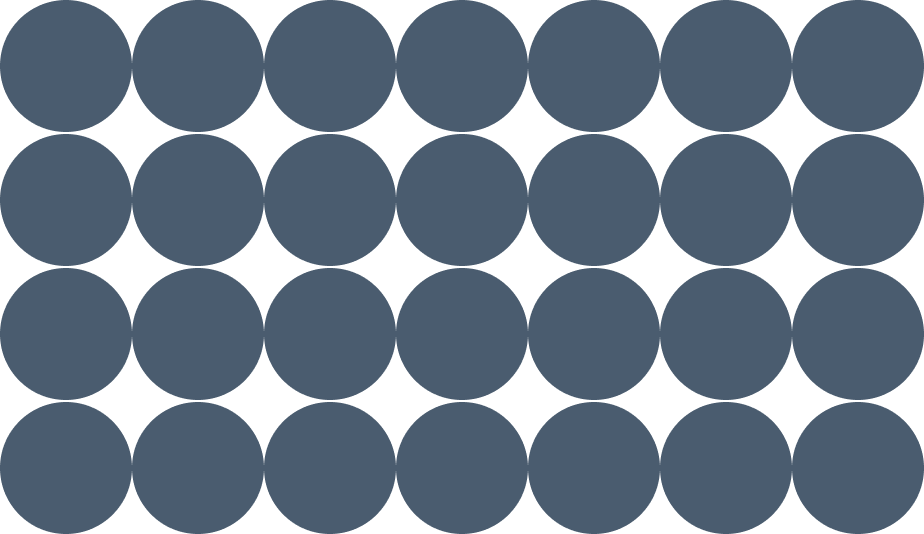
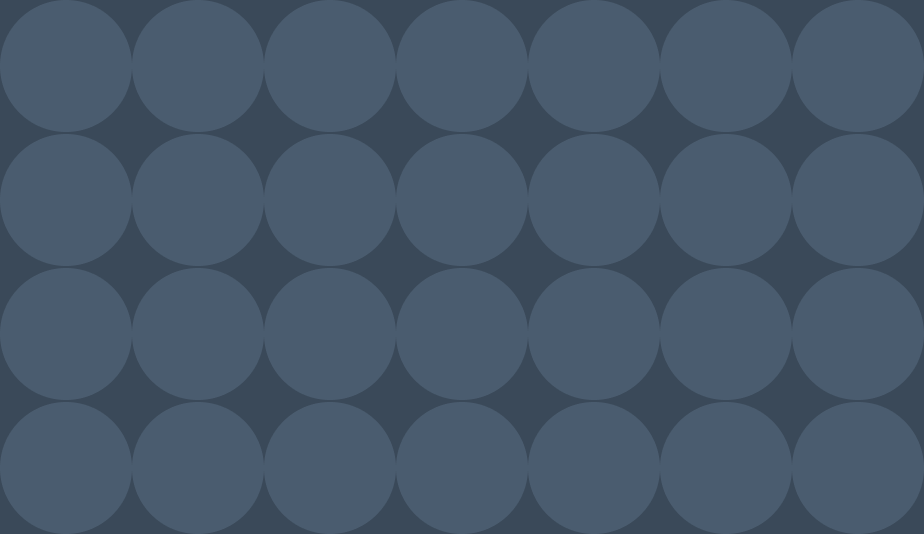
Update Image

diff --git a/apps/client/src/components/MainPage/Section3/index.tsx b/apps/client/src/components/MainPage/Section3/index.tsx
@@ -96,7 +96,7 @@ const Section3 = () => {
                 'flex-col',
                 'justify-between',
                 'rounded-3xl',
-                'bg-[#3A4959] p-6',
+                'p-6',
               )}
               style={{
                 // eslint-disable-next-line quotes
